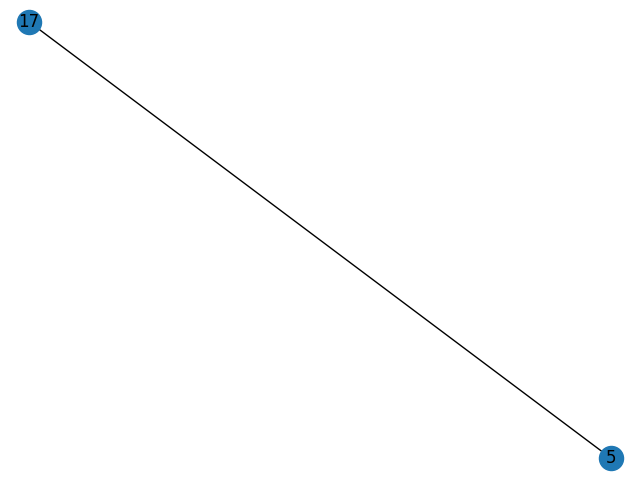
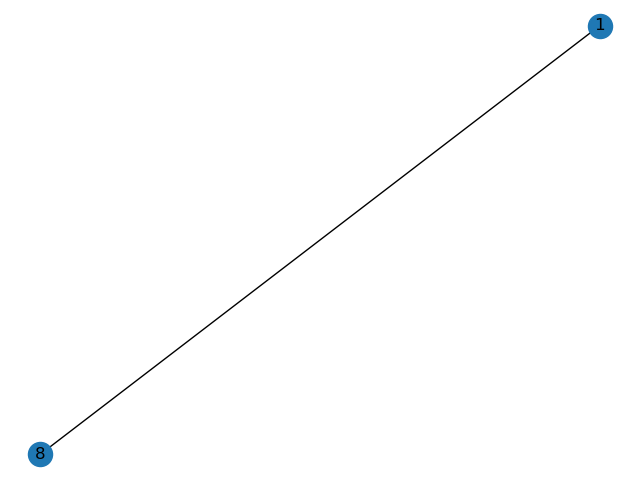
Mise a jour, tout marche y compris les images (affichage + download)

diff --git a/app/static/graph_view.html b/app/static/graph_view.html
@@ -78,7 +78,7 @@
 
         </div>
 
-        <img src='../images/original.png'>
+        <img src='../vector_image'>
 
         <script>
         </script>

diff --git a/app/static/path_view.html b/app/static/path_view.html
@@ -53,7 +53,7 @@
 
         </div>
 
-
+    <img src="../opti_image">
     </body>
 
 </html>

diff --git a/app/static/index.html b/app/static/index.html
@@ -70,10 +70,6 @@
 
 
         </div>
-  
-  
-      </script>
-
 
     </body>
 

diff --git a/app/main.py b/app/main.py
@@ -20,32 +20,22 @@ app.mount("/static", StaticFiles(directory="static"), name="static")
 db = []
 path = []
 
-
+# Read index.html file which will be the first page to appear
 @app.get('/', response_class=HTMLResponse)
 async def index():
+    # find file in static
     file = codecs.open("static/index.html", "r")
+    # make the page appear as the response class is HTMLResponse
     return file.read()
 
-@app.get('/graph')
-async def get_graph():
-    return db
 
-@app.get("/vector_image")
-def image_endpoint():
-    file_like = open("images/original.jpg", mode="rb")
-    return StreamingResponse(file_like, media_type="image/jpg")
-
-@app.get("/opti_image")
-def image_endpoint():
-    file_like = open("images/shortest_path.png", mode="rb")
-    return StreamingResponse(file_like, media_type="image/jpg")
-    
+# go to this after the user has chosen to create its graph
 @app.get('/generate/{nodes_edges}', response_class=HTMLResponse)
 def image_nertworkx(nodes:int = 30, edges:int  = 3):
     g = nx.to_directed(nx.barabasi_albert_graph(nodes, edges))
     nx.draw(g, with_labels=True)
     plt.savefig("images/original.jpg")
-
+    plt.close()
     dict_capa = {}
     for i, j in g.edges:
         dict_capa[i, j] = dict_capa[j, i] = round(random.uniform(1.0, 20.0), 0)
@@ -120,6 +110,20 @@ def image_nertworkx(nodes:int = 30, edges:int  = 3):
     return file.read()
 
 
+@app.get('/graph')
+async def get_graph():
+    return db
+
+@app.get("/vector_image")
+def image_endpoint():
+    file_like = open("images/original.jpg", mode="rb")
+    return StreamingResponse(file_like, media_type="image/jpg")
+
+@app.get("/opti_image")
+def image_endpoint():
+    file_like = open("images/opti_image.jpg", mode="rb")
+    return StreamingResponse(file_like, media_type="image/jpg")
+
 @app.get('/generate_path/{source_target}',response_class=HTMLResponse)
 async def opti_path(source:int = 0, target:int  = 10):
     g = nx.Graph(db[0])
@@ -187,11 +191,11 @@ async def opti_path(source:int = 0, target:int  = 10):
                 un_res.append(i) 
 
     print(un_res)
+    print("key : {}".format(key))
     sg = g.subgraph(un_res)
-    plt.close()
     nx.draw(sg, with_labels=True)
-    plt.savefig("images/{}".format(keys))
-    plt.show()
+    plt.savefig("images/opti_image.jpg")
+    plt.close()
 
     if pulp.LpStatus[prob.status] != 'Infeasible'  :
         file = codecs.open("static/path_view.html", "r")
